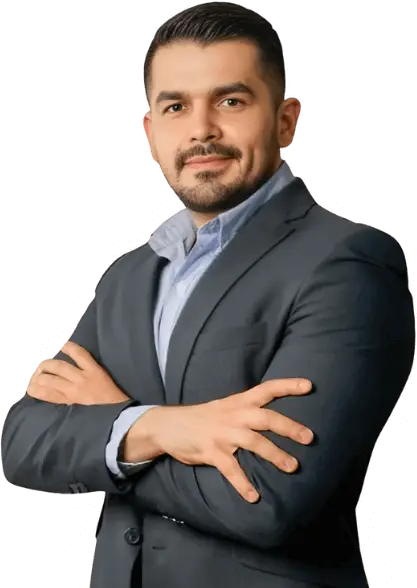
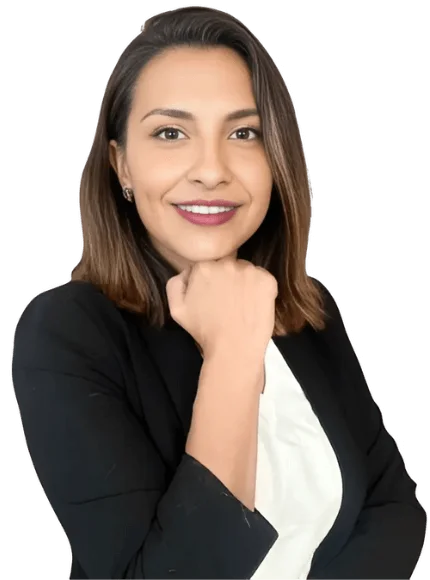
22 commit - agente page / full maqueta 1.2

diff --git a/src/components/imports/Section-A-1.jsx b/src/components/imports/Section-A-1.jsx
@@ -1,5 +1,5 @@
 import MetLifeIcon from '../../../public/images/FavIcon.webp';
-import ImgSection1 from '../../assets/images/Imagen section 1.webp';
+import ImgSectionA1 from '../../assets/images/Imagen section A1.webp';
 
 export const SectionA1 = () => {
     return (
@@ -21,7 +21,7 @@ export const SectionA1 = () => {
                 <div className="section-1-2">
                     <div className="section-1-2-1">
                         <img
-                            src={ImgSection1}
+                            src={ImgSectionA1}
                             alt="Agente de seguros MetLife de brazos cruzados orgullosa de lo que ha logrado"
                             className="img-section-A1"
                             loading="lazy"
@@ -29,8 +29,8 @@ export const SectionA1 = () => {
                     </div>
 
                     <div className="section-1-2-2">
-                        <h2 className="light-text">Arturo Elizondo</h2>
-                        <p className="light-text-curve">Ceo VitaMet</p>
+                        <h2 className="light-text">Rocio Olivoso</h2>
+                        <p className="light-text-curve">Asesora Profesional de Seguros</p>
                     </div>
                 </div>
             </div>

diff --git a/src/components/pages/AgentePage.jsx b/src/components/pages/AgentePage.jsx
@@ -19,7 +19,7 @@ export const AgentePage = () => {
                     lo necesario para impulsar tu carrera. Te brindamos capacitación continua, asesoramiento personalizado y un esquema de comisiones
                     altamente competitivo en la venta de seguros. Buscamos personas comprometidas, con educación mínima de preparatoria, edad ideal
                     entre 30 y 50 años, con mentalidad ganadora y disciplina. Juntos, te ayudaremos a obtener tu cédula y/o a consolidar una carrera
-                    exitosa con proyección a largo plazo. ¡Estamos listos para apoyarte en cada paso hacia el éxito!
+                    exitosa con proyección a largo plazo. ¡Estamos listos para apoyarte en cada paso hacia el éxito!{' '}
                     <NavLink to="/politica-privacidad" title="Ver la política de privacidad">
                         Conoce más Aquí.
                     </NavLink>

diff --git a/src/components/pages/LandingPage.jsx b/src/components/pages/LandingPage.jsx
@@ -52,7 +52,7 @@ export const LadingPage = () => {
                     lo necesario para impulsar tu carrera. Te brindamos capacitación continua, asesoramiento personalizado y un esquema de comisiones
                     altamente competitivo en la venta de seguros. Buscamos personas comprometidas, con educación mínima de preparatoria, edad ideal
                     entre 30 y 50 años, con mentalidad ganadora y disciplina. Juntos, te ayudaremos a obtener tu cédula y/o a consolidar una carrera
-                    exitosa con proyección a largo plazo. ¡Estamos listos para apoyarte en cada paso hacia el éxito!
+                    exitosa con proyección a largo plazo. ¡Estamos listos para apoyarte en cada paso hacia el éxito!{' '}
                     <NavLink to="/politica-privacidad" title="Ver la política de privacidad">
                         Conoce más Aquí.
                     </NavLink>

diff --git a/src/components/imports/Section1.jsx b/src/components/imports/Section1.jsx
@@ -38,8 +38,8 @@ export const Section1 = () => {
                     </div>
 
                     <div className="section-1-2-2">
-                        <h2 className="light-text">Arturo Elizondo</h2>
-                        <p className="light-text-curve">Ceo VitaMet</p>
+                        <h2 className="light-text">Andrea Díaz</h2>
+                        <p className="light-text-curve">Asesora Profesional de Seguros</p>
                     </div>
                 </div>
             </div>

diff --git a/src/index.css b/src/index.css
@@ -290,7 +290,7 @@ body {
     margin-top: 10px;
     border: 1px solid #ccc;
     border-radius: 10px;
-    background-color: #f1f1f1;
+    background-color: white;
     box-shadow: 0 4px 6px rgba(0, 0, 0, 0.1);
 }
 
@@ -368,7 +368,7 @@ body {
     padding: 0 5px;
     border: 1px solid #ccc;
     border-radius: 10px;
-    background-color: #f1f1f1;
+    background-color: white;
     box-shadow: 0 4px 6px rgba(0, 0, 0, 0.1);
 }
 

diff --git a/src/components/imports/Section4.jsx b/src/components/imports/Section4.jsx
@@ -26,7 +26,7 @@ export const Section4 = () => {
 
                         <div className="section-4-3-2">
                             <h2 className="light-text">Arturo Elizondo</h2>
-                            <p className="light-text-curve">Ceo VitaMet</p>
+                            <p className="light-text-curve">Promotor MetLife</p>
                         </div>
                     </div>
                 </div>
